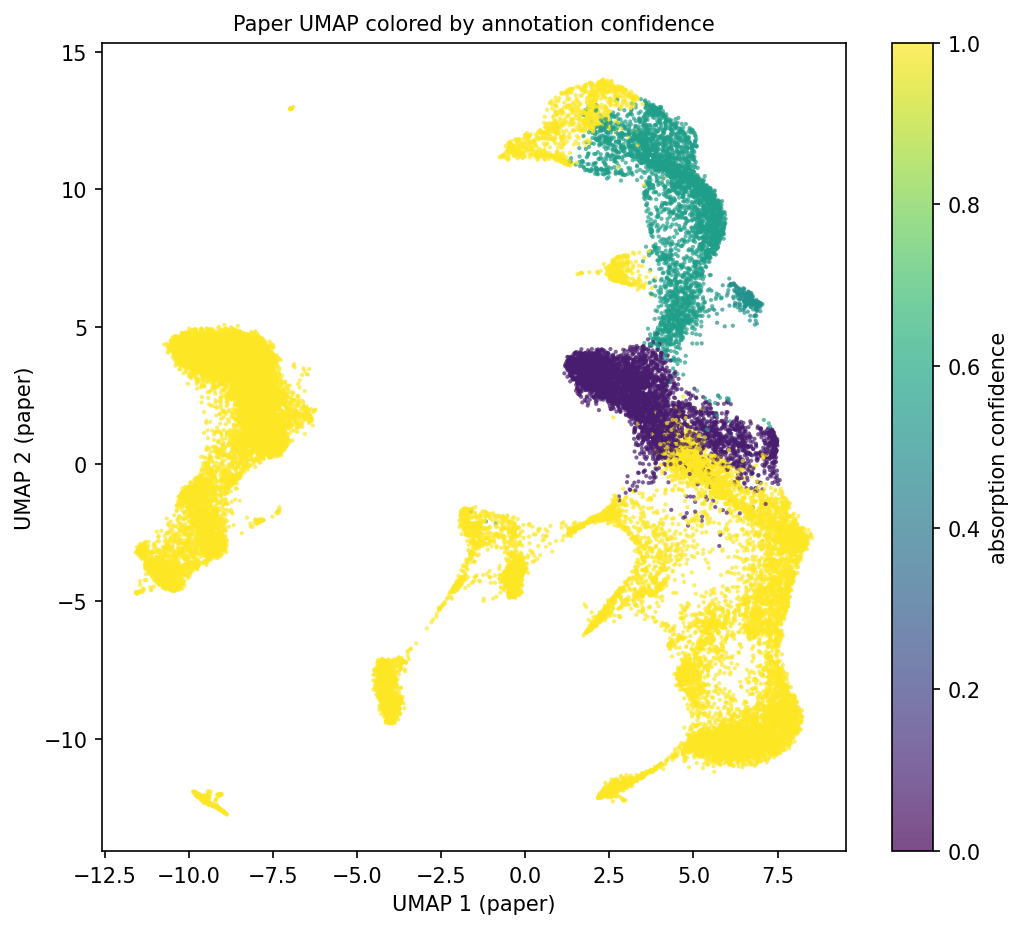
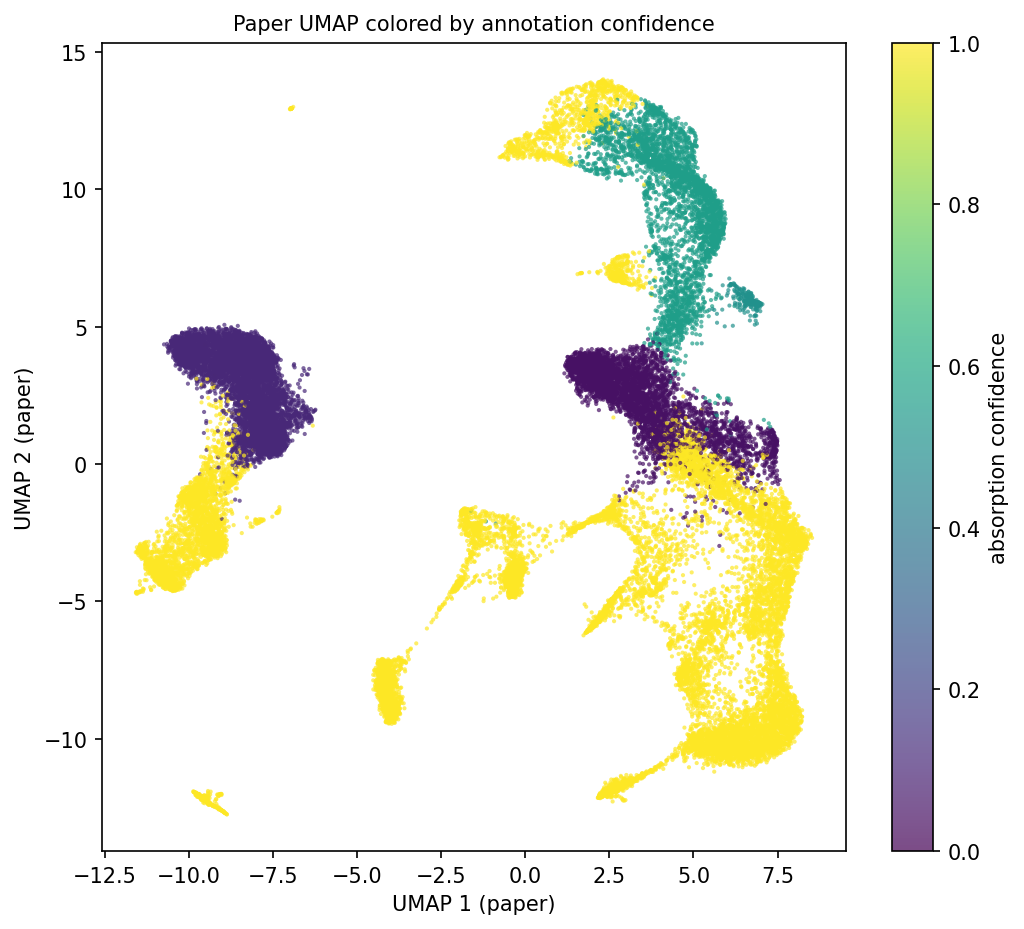
Phase 2.5: T cell maturation subtree from pptx slide 3 — DAG prior + 15 T markers
New data/priors/dag_prior_t_maturation.yaml (20 nodes, 19 edges)
parsed from DAG_editable.pptx slide 3 connector geometry plus
implicit Pro-T -> DN -> DP -> Naive_T -> {CD4/CD8/NKT} glue to
hook the subtree into BM broad prior at T_cell_progenitor.

dcta.prior.load_dag_prior(path|list[path]) now accepts a list of
yamls and returns union DAG.

run_phase1.py --dag-prior-yaml default now
  'data/priors/dag_prior_bm.yaml,data/priors/dag_prior_t_maturation.yaml'
(comma-split into list at parse time).

15 new entries in lineage_mature_markers.yaml (all synthetic: true):
  DN/DP/T_gd/NKT_cell (thymic precursors)
  Naive_T_cell/Naive_CD4_T_cell/Naive_CD8_T_cell/CD4_naive/CD8_naive
  Th1/Th2/Th17/Tfh/CD8_Treg
  CD4_central_memory/CD8_central_memory/CD4_effector_memory/
  CD8_effector_memory/CD8_effector
With aliases pulling paper labels (CD4 Memory T / CD8 Naive / etc.).

Zeng2025_BMM 30k re-run (paper_AuthorCellType_Broad clusters):
  lineage_accuracy 0.895 -> 0.924 (+2.9pp)
  strict_accuracy  0.550 -> 0.518 (dip OK: DCTA now predicts specific
    T terminals like Naive_T_cell while paper Broad has aggregate
    CD4 Memory T; matches at lineage_family)
  prior_consistency 0.606 -> 0.636
  direction agreement 0.742 -> 0.758
  T-class lineage_rate all 1.000 (was 0.0 strict / 0.4-0.9 before)
  Naive_T_cell now predicted for 6250 cells, CD8_effector 2776
  (vs 0 before T subtree existed).

26/26 synthetic tests pass.

Changed region(s): [[0.1562, 0.3434, 0.3125, 0.5307]]

diff --git a/run_phase1.py b/run_phase1.py
@@ -40,11 +40,14 @@ def parse_args(argv=None):
                    help="adata.obs column used to look up seniority")
     p.add_argument("--direction-strategy", default="auto_select",
                    choices=["auto_select", "marker", "dpt"])
-    p.add_argument("--dag-prior-yaml", default="data/priors/dag_prior_bm.yaml",
-                   help="Optional prior hematopoietic DAG. When provided "
-                        "together with --lineage-marker-yaml, edges of G_data "
-                        "are scored for prior consistency and backbone "
-                        "penalizes anti-prior edges. Pass '' to disable.")
+    p.add_argument("--dag-prior-yaml",
+                   default="data/priors/dag_prior_bm.yaml,data/priors/dag_prior_t_maturation.yaml",
+                   help="Optional prior hematopoietic DAG (comma-separated "
+                        "list of yamls; merged as union of nodes/edges). "
+                        "When provided together with --lineage-marker-yaml, "
+                        "edges of G_data are scored for prior consistency "
+                        "and backbone penalizes anti-prior edges. Pass '' "
+                        "to disable.")
     p.add_argument("--prior-inconsistent-penalty", type=float, default=0.5,
                    help="Multiplicative penalty (0..1) applied to edge weight "
                         "during backbone calculation when edge is prior-"
@@ -115,7 +118,13 @@ def main(argv=None):
           f"components: {adata.uns['dcta']['component_count']}", flush=True)
 
     print("[DCTA] dag", flush=True)
-    dag_prior_yaml = args.dag_prior_yaml or None
+    raw = (args.dag_prior_yaml or "").strip()
+    if not raw:
+        dag_prior_yaml = None
+    elif "," in raw:
+        dag_prior_yaml = [p.strip() for p in raw.split(",") if p.strip()]
+    else:
+        dag_prior_yaml = raw
     adata = dcta.dag.build(adata, edge_threshold=args.edge_threshold,
                            transitive_reduction=args.transitive_reduction,
                            direction_strategy=args.direction_strategy,

diff --git a/dcta/prior.py b/dcta/prior.py
@@ -20,20 +20,26 @@ import yaml
 import anndata as ad
 
 
-def load_dag_prior(path: str) -> nx.DiGraph:
-    """Load DAG prior YAML -> nx.DiGraph.
+def load_dag_prior(path: str | list[str]) -> nx.DiGraph:
+    """Load DAG prior YAML(s) -> nx.DiGraph.
+
+    Accepts either a single path or a list of paths. Multiple YAMLs are
+    merged: union of nodes and edges. Useful for stitching the broad BM
+    prior with a maturation-subtree prior (Phase 2.5 T cell tree).
 
     YAML schema (see data/priors/dag_prior_bm.yaml):
       nodes: list[str]
       edges: list[[parent, child]]
     """
-    with open(path) as f:
-        cfg = yaml.safe_load(f)
+    paths = [path] if isinstance(path, str) else list(path)
     G = nx.DiGraph()
-    for n in cfg.get("nodes", []):
-        G.add_node(str(n))
-    for src, dst in cfg.get("edges", []):
-        G.add_edge(str(src), str(dst))
+    for p in paths:
+        with open(p) as f:
+            cfg = yaml.safe_load(f) or {}
+        for n in cfg.get("nodes", []) or []:
+            G.add_node(str(n))
+        for src, dst in cfg.get("edges", []) or []:
+            G.add_edge(str(src), str(dst))
     return G
 
 

diff --git a/STATE.md b/STATE.md
@@ -125,6 +125,54 @@ Changed `dcta.dag._longest_path_length` to support `weight_mode="sum_weight"`
 (default flipped to weight-aware). Mean backbone edge weight 0.580 → 0.753;
 max-UMAP-jump 11.46 → 6.04. See commit `c23be9d`.
 
+### Phase 2.5 — T cell maturation subtree (2026-05-21)
+
+New file `data/priors/dag_prior_t_maturation.yaml` — 20 nodes / 19 edges:
+- Thymic precursors (DN, DP, T_gd, NKT_cell) glued onto BM prior at
+  T_cell_progenitor
+- Naive_T_cell -> {Naive_CD4_T_cell, Naive_CD8_T_cell, NKT_cell}
+- pptx slide-3 connector-derived edges:
+  CD4 -> {Th1, Th2, Th17, Tfh, Treg, CD4_naive -> CD4_central_memory
+          -> CD4_effector_memory}
+  CD8 -> {CD8_naive -> CD8_central_memory -> CD8_effector_memory
+          -> CD8_effector, CD8_Treg}
+
+`dcta.prior.load_dag_prior` now accepts list of paths (union of nodes
+and edges) so the two priors merge cleanly. CLI:
+`--dag-prior-yaml data/priors/dag_prior_bm.yaml,data/priors/dag_prior_t_maturation.yaml`
+(default).
+
+15 T-subtree markers added to lineage_mature_markers.yaml (all
+`synthetic: true`):
+  DN/DP/T_gd/NKT_cell
+  Naive_T_cell, Naive_CD4_T_cell, Naive_CD8_T_cell, CD4_naive, CD8_naive
+  Th1/Th2/Th17/Tfh, CD8_Treg, CD4_central_memory, CD8_central_memory,
+  CD4_effector_memory, CD8_effector_memory, CD8_effector
+Aliases pull paper labels (CD4 Memory T / CD8 Naive / etc.) onto
+these new entries.
+
+Zeng2025_BMM 30k re-run (paper_AuthorCellType_Broad clusters):
+  lineage_accuracy: 0.895 -> **0.924** (+2.9pp)
+  strict_accuracy:  0.550 -> 0.518 (slight dip — DCTA now predicts
+    specific T terminals like Naive_T_cell/CD8_effector while paper
+    broad column has aggregate CD4 Memory T/CD8 Memory T; matches at
+    lineage_family level)
+  prior_consistency_rate: 0.606 -> 0.636
+  Direction agreement_rate: 0.742 -> 0.758
+  T-class lineage_rate:
+    CD4_T, Cytotoxic_CD8, CD4/CD8 central_memory, CD4/CD8 effector_memory,
+    T_reg, Naive_T  →  ALL 1.000 (was 0.000 strict / 0.4-0.9 lineage)
+  First time DCTA assigns T-cell terminal labels at all (Naive_T_cell
+  6250, CD8_effector 2776 vs 0 before).
+
+Still-zero classes (Phase 2.6+):
+  CMP / NK (paper Broad NK cluster falls into CD8_effector via Cycling
+  Progenitor; needs sharper NK panel + perhaps add NK_progenitor to
+  G_prior between CLP and NK_cell)
+  Pro_B_cell / CLP / T_reg / Naive_T strict=0 (predicted as related but
+  not exact canonical; could be fixed with more aliases but the
+  underlying call is biologically reasonable)
+
 ### Phase 2.3 — Absorbing Markov chain + cell annotation (2026-05-21)
 
 New modules:
@@ -263,6 +311,7 @@ All 21 synthetic tests + 1 Hay smoke still pass.
 - ~~Lineage-specific mature marker YAMLs~~ ✅ Phase 2.1
 - ~~Prior hematopoietic DAG wiring~~ ✅ Phase 2.2
 - ~~Absorbing Markov chain + cell annotation~~ ✅ Phase 2.3
+- ~~T cell maturation subtree~~ ✅ Phase 2.5
 - Terminal / transient annotation per cell
 - AML/MDS deviation detection
 - Virtual HSC for blood/spleen (`virtual_hsc_ref` strategy hook already in place)
